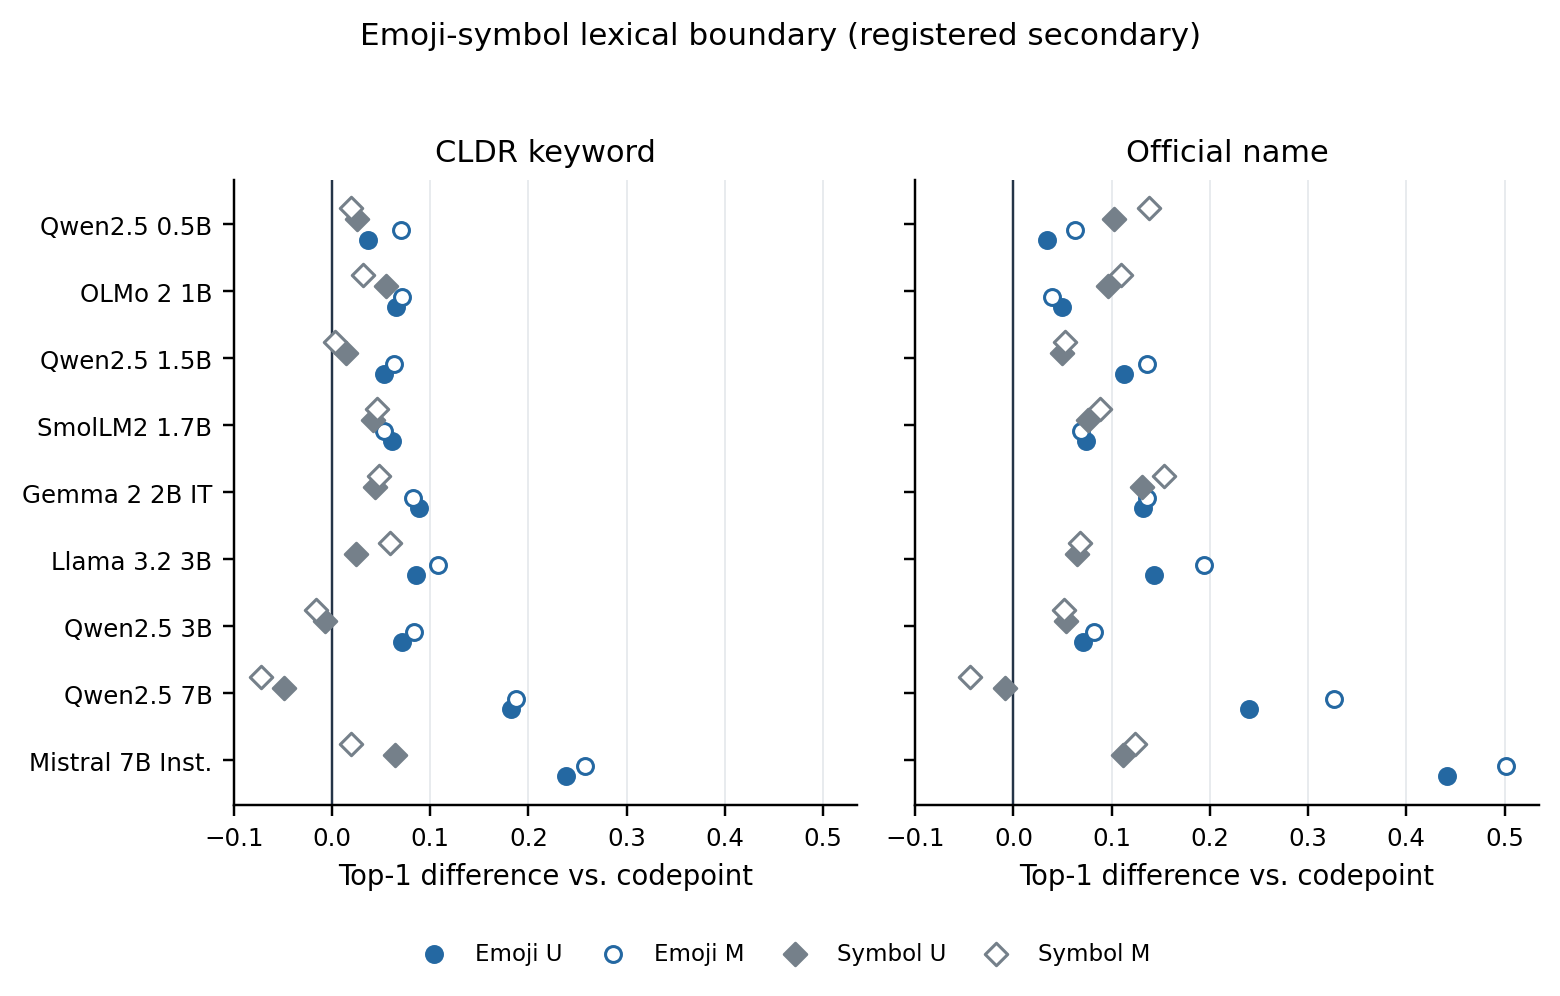
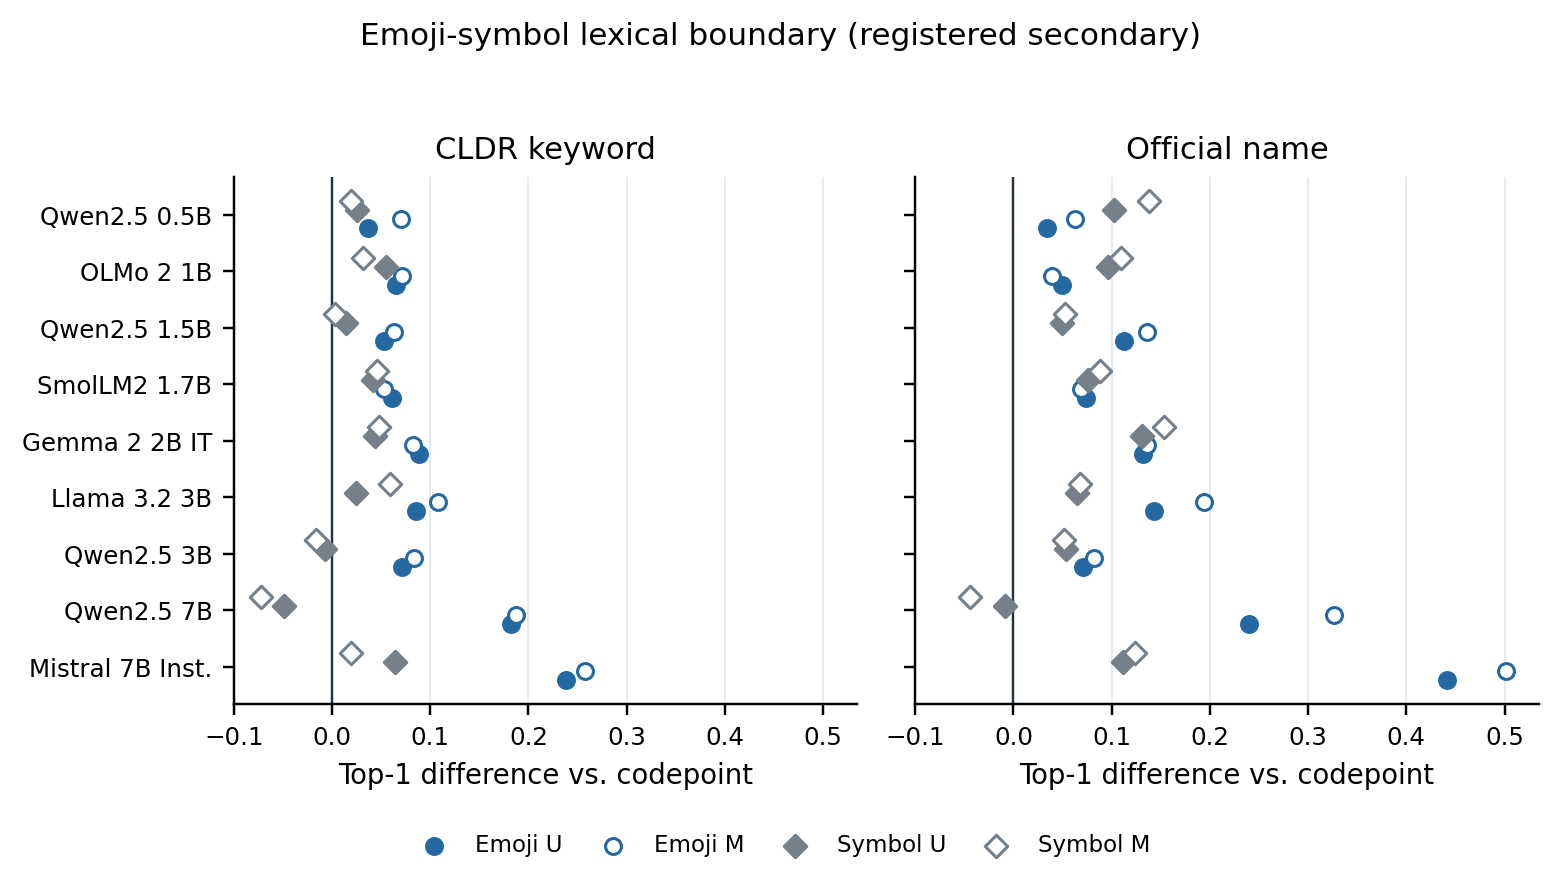
Move T19-C sites figure to the appendix and compact figures/prose for page budget

diff --git a/paper/main.tex b/paper/main.tex
@@ -67,12 +67,11 @@ localized semantic circuit.
 
 Single-codepoint emoji nevertheless make the recoverability question
 unusually clean. Under the word-disjointness constraint below, the character
-shares no substring, no morpheme, and not one ASCII-alphanumeric word with the
-keyword it must retrieve, so any observed relation must be carried by learned
-association rather than by surface form. Atomic Unicode characters thereby
-offer a controlled testbed for how text-only models attach lexical relations
-to opaque tokens, and a concrete auditing target for multilingual and
-social-media systems that consume such tokens at scale.
+shares no substring, morpheme, or ASCII-alphanumeric word with the keyword it
+must retrieve, so any observed relation must be carried by learned
+association rather than surface form: a controlled testbed for how text-only
+models attach lexical relations to opaque tokens, and a concrete auditing
+target for systems that consume such tokens at scale.
 
 A prospectively specified two-arm design separates two narrower questions.
 The observational arm asks whether a raw atomic emoji retrieves a
@@ -421,12 +420,11 @@ $+0.036$, $+0.053$, $+0.071$, $+0.182$ from 0.5B to 7B). The roster remains
 confounded across families, so this ordering is description, not a registered
 scale result.
 
-Depth was secondary. The nine recorded fractions were $0, 0.125,\ldots,1.0$;
-only $0.75$, $0.875$, and $1.0$ formed the primary window. Across models and
-contexts, the unrestricted contrast was $+0.0409$ at depth 0, then $+0.0864$,
-$+0.1152$, and $+0.0922$ at the three primary depths, whose mean is the
-$+0.0979$ reported above. Individual configurations had different onset and peak
-depths, so these data do not support one universal trajectory.
+Depth was secondary. Across models and contexts, the unrestricted contrast
+was $+0.0409$ at depth 0 and $+0.0864$, $+0.1152$, $+0.0922$ at the three
+primary depths, whose mean is the $+0.0979$ above; onset and peak depths
+differed across configurations, so these data do not support one universal
+trajectory.
 
 \subsection{A named-symbol control limits the emoji-specific claim}
 
@@ -475,19 +473,8 @@ geometry, so any nonzero residue would indicate hook or batching infidelity. Nev
 passed. Block-24 attention had adjusted necessity $0.0000$ and sufficiency
 $-0.00521$; block-24 MLP had $+0.00521$ and $0.0000$. Their site IUT values
 were $1.0$ and $0.74912$, respectively. None of the six sites passed both
-components (Figure \ref{fig:causal}; exact values in Appendix
-\ref{app:causal}).
-
-\begin{figure}[t]
-  \centering
-  \includegraphics[width=\linewidth]{figures/t19_causal_sites.pdf}
-  \caption{Random-adjusted causal effects with descriptive 95\% item-bootstrap
-  intervals over 192 emoji held out from T19-L. Shaded rows and asterisks mark the two
-  primary block-24 sites. Solid vertical lines show zero; dashed lines show the
-  registered $0.02$ effect-size floor. No site has both necessity and sufficiency above the
-  floor with positive lower bounds.}
-  \label{fig:causal}
-\end{figure}
+components (Figure \ref{fig:causal}, Appendix \ref{app:causal}; exact values
+in Table \ref{tab:causal}).
 
 The secondary block-27 MLP patch produced adjusted sufficiency $+0.07812$
 (95\% interval $[+0.03646,+0.11979]$; one-sided $p=0.00009$, uncorrected,
@@ -863,6 +850,18 @@ vectors in 45 sealed shards.
 
 \section{Exact causal results}
 \label{app:causal}
+
+\begin{figure}[t]
+  \centering
+  \includegraphics[width=\linewidth]{figures/t19_causal_sites.pdf}
+  \caption{Random-adjusted T19-C causal effects with descriptive 95\%
+  item-bootstrap intervals over 192 emoji held out from T19-L. Shaded rows
+  and asterisks mark the two primary block-24 sites. Solid vertical lines
+  show zero; dashed lines show the registered $0.02$ effect-size floor. No
+  site has both necessity and sufficiency above the floor with positive lower
+  bounds.}
+  \label{fig:causal}
+\end{figure}
 
 \begin{table}[H]
 \centering

diff --git a/paper/scripts/build_figures.py b/paper/scripts/build_figures.py
@@ -448,7 +448,7 @@ def build_lineage() -> list[Path]:
 
 
 def build_model_effects(models: list[dict[str, Any]]) -> list[Path]:
-    fig, ax = plt.subplots(figsize=(6.9, 3.75))
+    fig, ax = plt.subplots(figsize=(6.9, 3.45))
     positions = list(range(len(models)))
     y_u = [y + 0.13 for y in positions]
     y_m = [y - 0.13 for y in positions]
@@ -520,7 +520,7 @@ def build_model_effects(models: list[dict[str, Any]]) -> list[Path]:
 
 
 def build_emoji_symbol_boundary(models: list[dict[str, Any]]) -> list[Path]:
-    fig, axes = plt.subplots(1, 2, figsize=(7.15, 4.45), sharey=True, sharex=True)
+    fig, axes = plt.subplots(1, 2, figsize=(7.15, 3.95), sharey=True, sharex=True)
     y = list(range(len(models)))
     endpoint_specs = [
         ("alias_minus_codepoint_top1", "CLDR keyword"),
